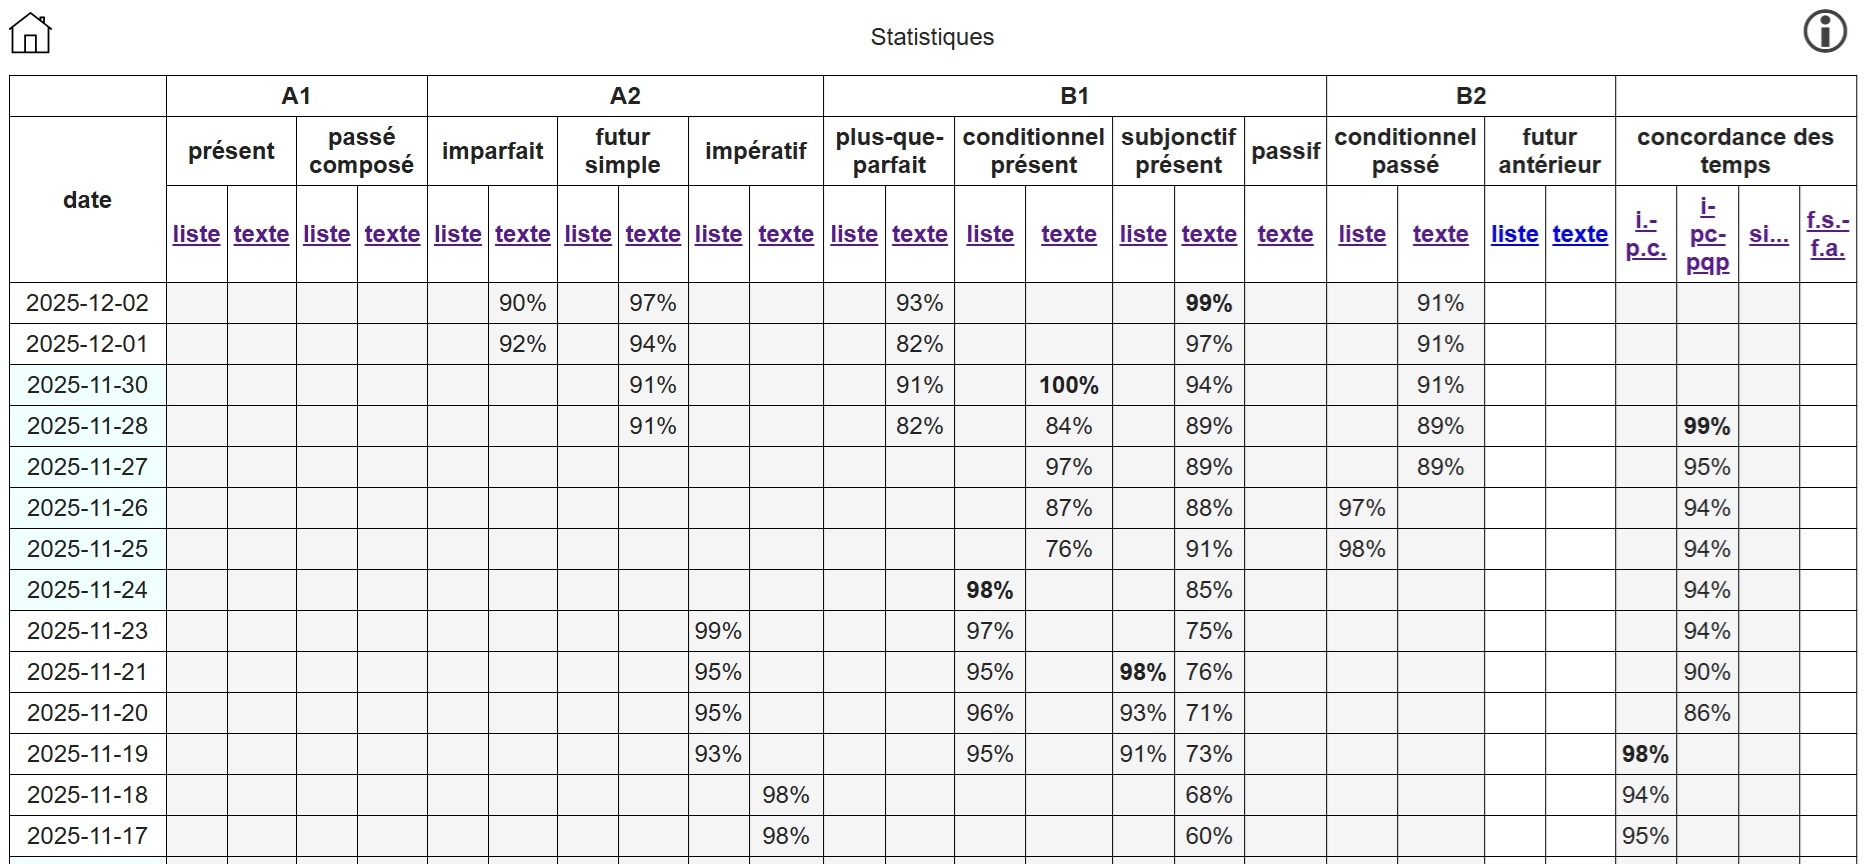
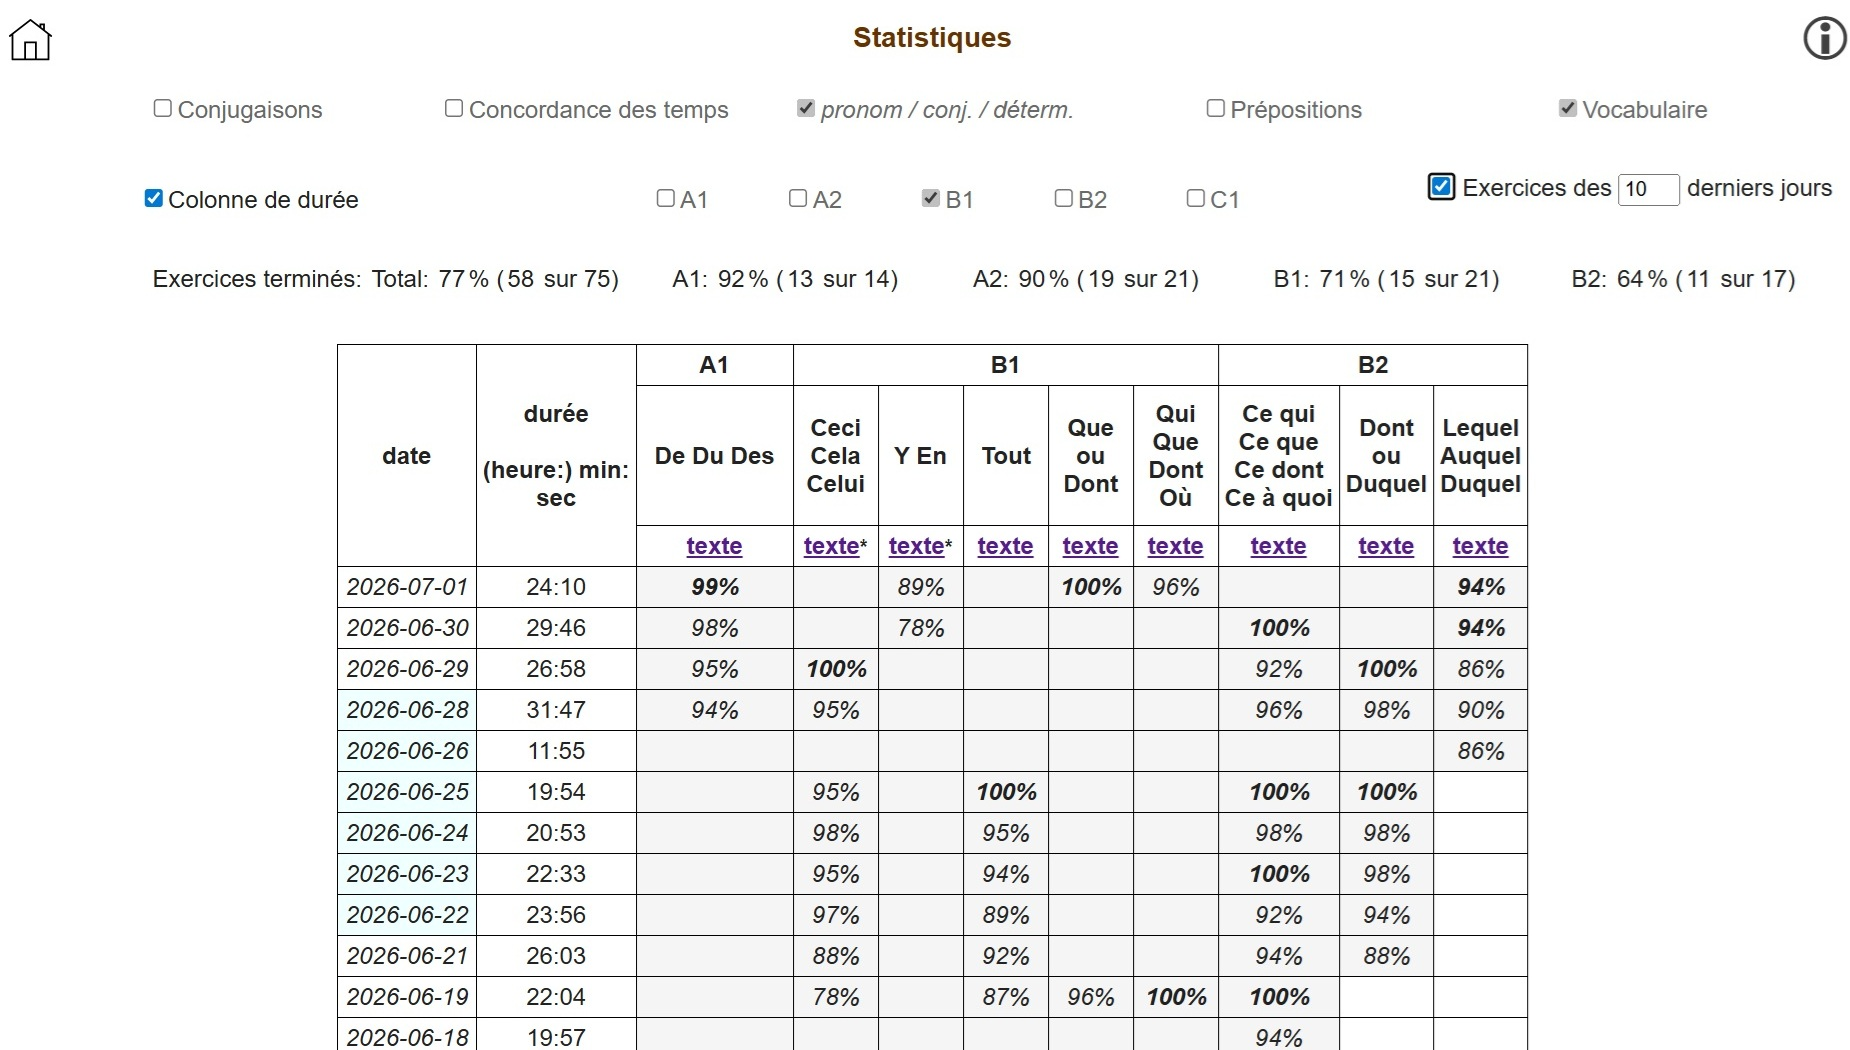
opacity for level stats ratio

diff --git a/french/pages/stats.html b/french/pages/stats.html
@@ -52,26 +52,34 @@
 
                     <span>
                         A1: <span id="percent-of-completed-exercises-A1"></span>%
-                        (<span id="number-of-completed-exercises-A1"></span> sur
-                        <span id="number-of-all-exercises-A1"></span>)
+                        <span class="stats-summary-ratio">
+                            (<span id="number-of-completed-exercises-A1"></span> sur
+                            <span id="number-of-all-exercises-A1"></span>)
+                        </span>
                     </span>
 
                     <span>
                         A2: <span id="percent-of-completed-exercises-A2"></span>%
-                        (<span id="number-of-completed-exercises-A2"></span> sur
-                        <span id="number-of-all-exercises-A2"></span>)
+                        <span class="stats-summary-ratio">
+                            (<span id="number-of-completed-exercises-A2"></span> sur
+                            <span id="number-of-all-exercises-A2"></span>)
+                        </span>
                     </span>
 
                     <span>
                         B1: <span id="percent-of-completed-exercises-B1"></span>%
-                        (<span id="number-of-completed-exercises-B1"></span> sur
-                        <span id="number-of-all-exercises-B1"></span>)
+                        <span class="stats-summary-ratio">
+                            (<span id="number-of-completed-exercises-B1"></span> sur
+                            <span id="number-of-all-exercises-B1"></span>)
+                        </span>
                     </span>
 
                     <span>
                         B2: <span id="percent-of-completed-exercises-B2"></span>%
-                        (<span id="number-of-completed-exercises-B2"></span> sur
-                        <span id="number-of-all-exercises-B2"></span>)
+                        <span class="stats-summary-ratio">
+                            (<span id="number-of-completed-exercises-B2"></span> sur
+                            <span id="number-of-all-exercises-B2"></span>)
+                        </span>
                     </span>
                 </div>
             </header>

diff --git a/french/styles.css b/french/styles.css
@@ -605,6 +605,10 @@ article.part-4 ol.nested>li.part-4 {
     width: 12em;
 }
 
+.stats-summary-ratio {
+    opacity: 0.5;
+}
+
 table {
     border-collapse: separate;
     border-spacing: 0;